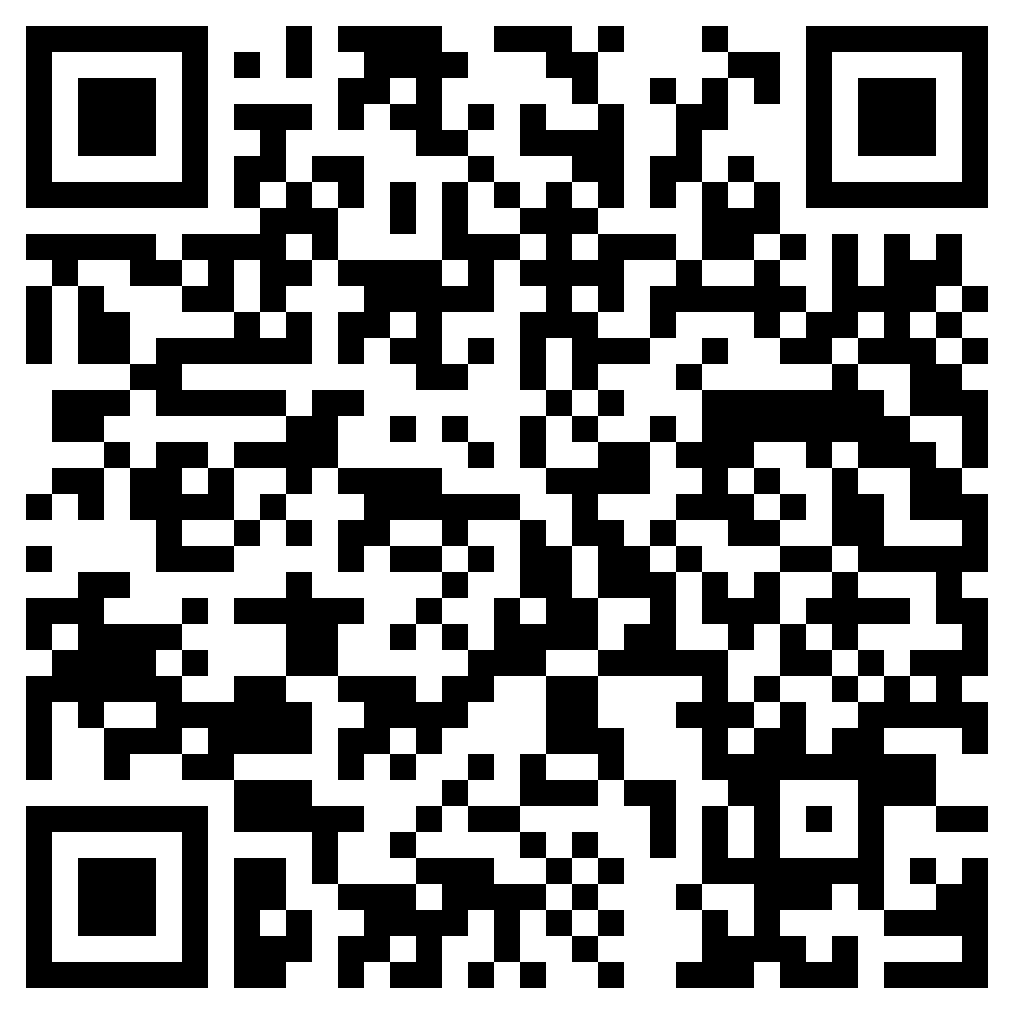
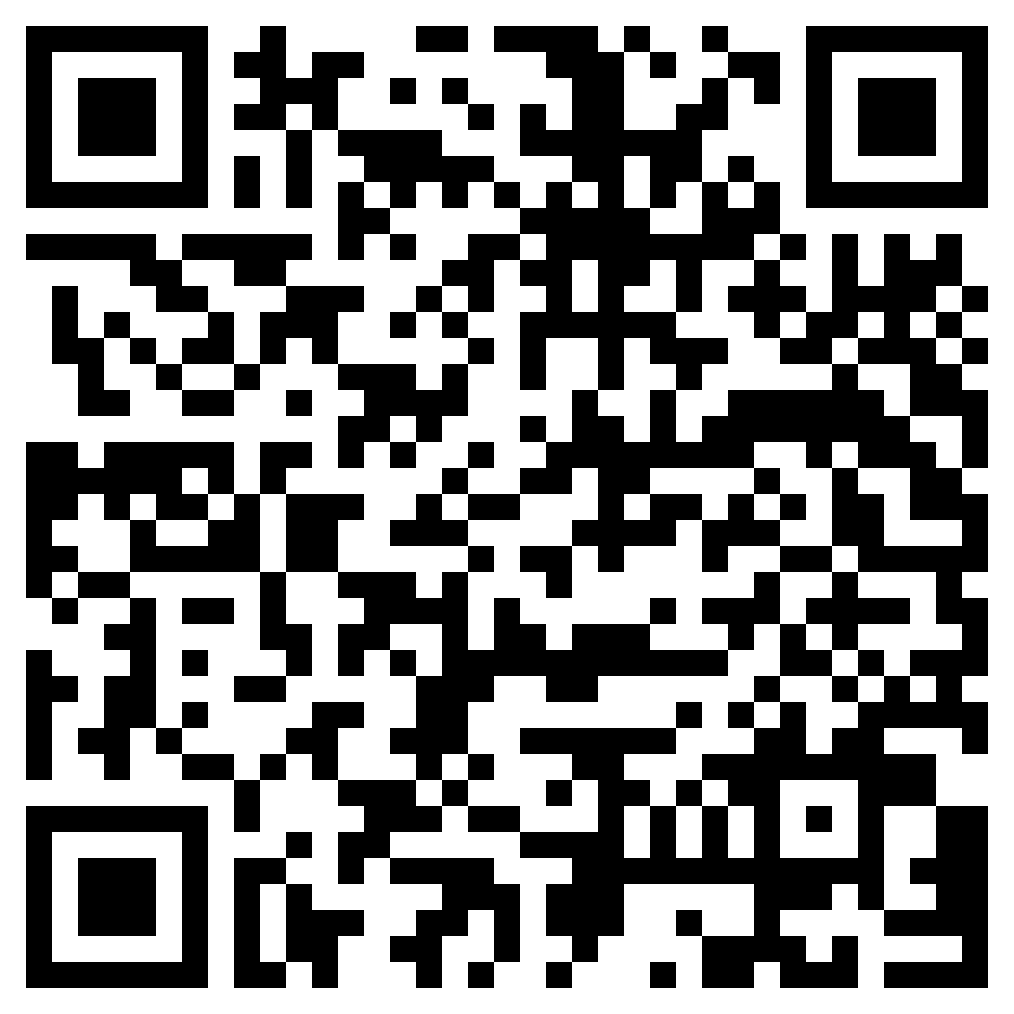
update apk an qr link

diff --git a/README.md b/README.md
@@ -28,7 +28,7 @@ WeDoRandom is an application with which you can make a choice by flipping a coin
 # Download (only android):
 <img style="height: 15rem; width: 15rem" src="https://github.com/killgram/we-do-random/raw/main/src/assets/img/wdr-qr.png" alt="qr-code">
 
-## or you can use [link](https://drive.google.com/file/d/1kNMv4wEMuP5J9yXLQXtvFqxabfi2mOzK/view?usp=sharing)
+## or you can use [link](https://drive.google.com/file/d/1kjicDbMcEHsNRhCn4eU_y_kC_T1FFZXr/view?usp=share_link)
 
 # A few steps to set up the environment (for dev):
 
